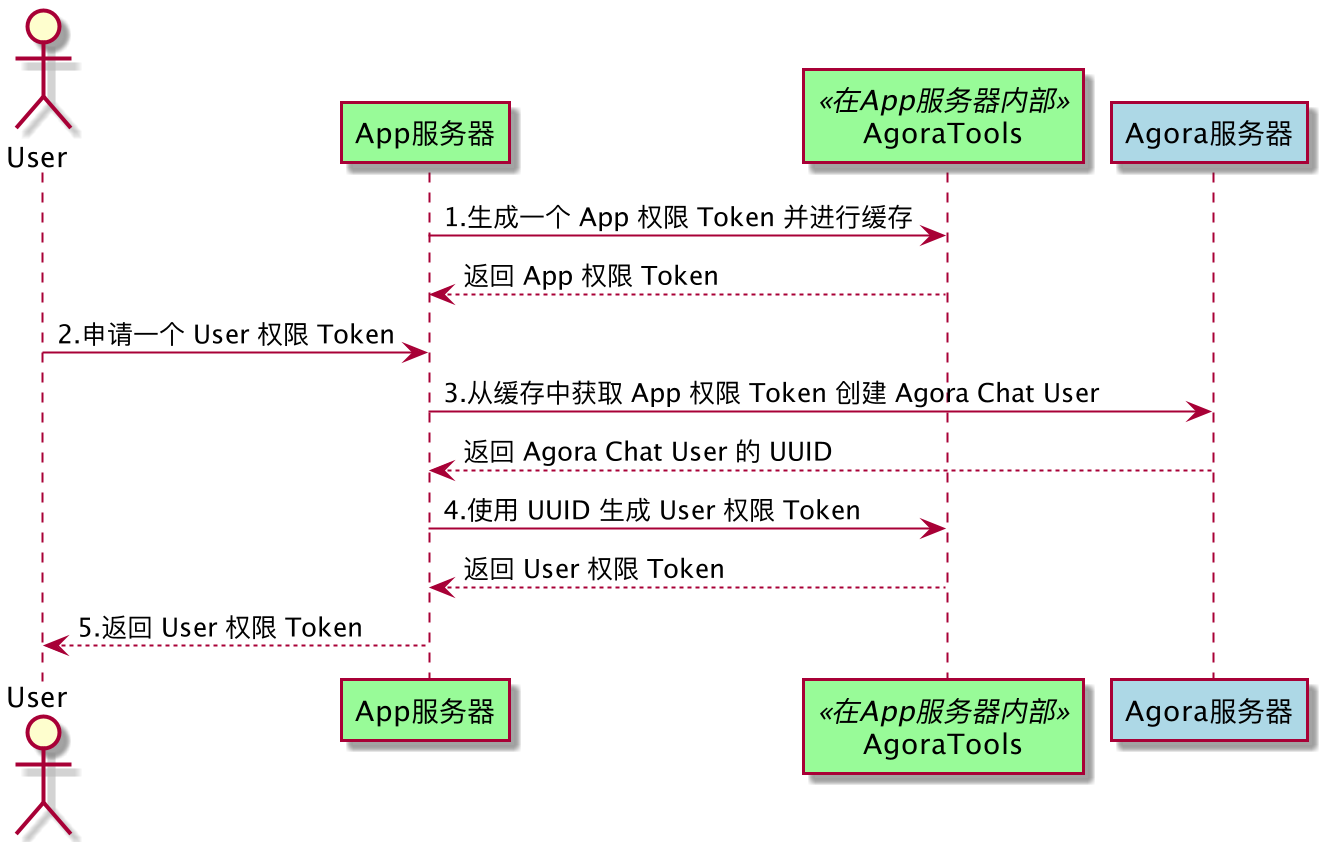
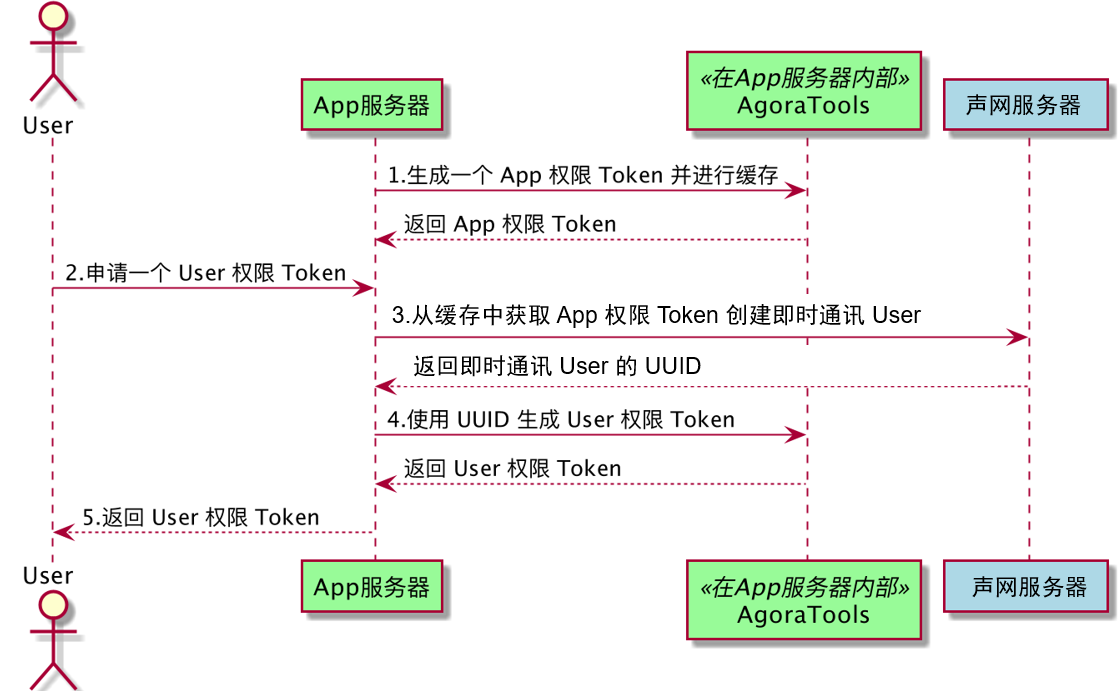
modify

diff --git a/markdown/agora-chat/legacy/access_token_2.md b/markdown/agora-chat/legacy/access_token_2.md
@@ -1,9 +1,10 @@
-如果你同时集成了 Agora Chat SDK 和 Agora RTC SDK，Agora 建议你将 Agora RTC SDK 的 Token 鉴权机制从 [AccessToken](https://github.com/AgoraIO/Tools/blob/master/DynamicKey/AgoraDynamicKey/cpp/src/AccessToken.h) 升级到 [AccessToken2](https://github.com/AgoraIO/Tools/blob/release/accesstoken2/DynamicKey/AgoraDynamicKey/cpp/src/AccessToken2.h)。
-本文以 Java 服务端和 Web 客户端为例，通过具体步骤引导你搭建并升级 Agora RTC SDK 的 Token 鉴权机制。
+如果你同时集成了即时通讯 IM SDK 和声网 RTC SDK，声网建议你将声网 RTC SDK 的 Token 鉴权机制从 [AccessToken](https://github.com/AgoraIO/Tools/blob/master/DynamicKey/AgoraDynamicKey/cpp/src/AccessToken.h) 升级到 [AccessToken2](https://github.com/AgoraIO/Tools/blob/release/accesstoken2/DynamicKey/AgoraDynamicKey/cpp/src/AccessToken2.h)。
+本文以 Java 服务端和 Web 客户端为例，通过具体步骤引导你搭建并升级声网 RTC SDK 的 Token 鉴权机制。
 
 ## 前提条件
-- 你已经根据[使用 User Token 鉴权](https://docs-preprod.agora.io/cn/null/generate_user_tokens%20?platform=All%20Platforms)文档完成了基于 Spring 框架的 Token 服务端和基于 Web 的 Agora Chat 客户端的搭建。
-- 为 Agora Chat 的 Token 服务端添加基于 [AccessToken](https://github.com/AgoraIO/Tools/blob/master/DynamicKey/AgoraDynamicKey/cpp/src/AccessToken.h) 的 RTC Token 服务。在 AgoraChatTokenController.java 文件中，增加 `import com.agora.chat.token.io.agora.media.RtcTokenBuilder;` 引用并添加以下方法：
+
+- 你已经根据[使用 User Token 鉴权](https://docs-preprod.agora.io/cn/null/generate_user_tokens%20?platform=All%20Platforms)文档完成了基于 Spring 框架的 Token 服务端和基于 Web 的即时通讯 IM 客户端的搭建。
+- 为即时通讯 IM 的 Token 服务端添加基于 [AccessToken](https://github.com/AgoraIO/Tools/blob/master/DynamicKey/AgoraDynamicKey/cpp/src/AccessToken.h) 的 RTC Token 服务。在 AgoraChatTokenController.java 文件中，增加 `import com.agora.chat.token.io.agora.media.RtcTokenBuilder;` 引用并添加以下方法：
 ```java
 // 生成 RTC AccessToken
 @GetMapping("/rtc/{rtcChannelName}/{rtcUserId}/{role}/token")
@@ -159,6 +160,7 @@ public String getRtcToken(@PathVariable String rtcChannelName, @PathVariable int
 ### 在 Token 服务端将鉴权机制升级到 AccessToken2
 
 该小节引导你将 Token 服务端升级到 AccessToken2。
+
 1. 更新 import 语句，导入 `RtcTokenBuilder2`。
 ```java
 import com.agora.chat.token.io.agora.media.RtcTokenBuilder2;
@@ -203,7 +205,8 @@ import com.agora.chat.token.io.agora.media.RtcTokenBuilder2;
 本节介绍 SDK 版本支持、AccessToken2 生成器代码库等相关文档。
 
 ### SDK 版本支持
-Agora RTC SDK 对于 AccessToken2 的支持情况如下：
+
+声网RTC SDK 对于 AccessToken2 的支持情况如下：
 
 | SDK 类型             | 支持 AccessToken2 鉴权的首个版本 |
 | :------------------- | :------------------------------- |
@@ -217,10 +220,11 @@ Agora RTC SDK 对于 AccessToken2 的支持情况如下：
 
 使用 AccessToken2 的 SDK 版本可以和使用 AccessToken 的 SDK 版本互通。同时，支持 AccessToken2 的版本也支持 AccessToken。
 
-如果你还使用了云端录制、推流等 RTC 配套产品或服务，请在升级到 AccessToken2 之前[提交工单](https://agora-ticket.agora.io/)联系技术支持。
+如果你还使用了云端录制、推流等 RTC 配套产品或服务，请在升级到 AccessToken2 之前[联系技术支持](https://docs.agora.io/cn/Agora%20Platform/ticket?platform=All%20Platforms)。
 
 ### Token 生成器代码
-Agora 在 GitHub 上提供一个开源的[ AgoraDynamicKey](https://github.com/AgoraIO/Tools/tree/master/DynamicKey/AgoraDynamicKey) 仓库，支持使用 C++、Java、Go 等语言在你自己的服务器上生成 AccessToken2。
+
+声网在 GitHub 上提供一个开源的 [AgoraDynamicKey](https://github.com/AgoraIO/Tools/tree/master/DynamicKey/AgoraDynamicKey) 仓库，支持使用 C++、Java、Go 等语言在你自己的服务器上生成 AccessToken2。
 
 
 | 语言    | 算法        | 核心方法                                                     | 示例代码                                                     |
@@ -234,7 +238,8 @@ Agora 在 GitHub 上提供一个开源的[ AgoraDynamicKey](https://github.com/A
 | Python3 | HMAC-SHA256 | [buildTokenWithUid](https://github.com/AgoraIO/Tools/blob/release/accesstoken2/DynamicKey/AgoraDynamicKey/python3/src/RtcTokenBuilder2.py) | [RtcTokenBuilder2Sample.py](https://github.com/AgoraIO/Tools/blob/release/accesstoken2/DynamicKey/AgoraDynamicKey/python3/sample/RtcTokenBuilder2Sample.py) |
 
 ### API 参考
-本节介绍生成 AccessToken2 的 API 参数和描述。 以 Java 为例：
+
+本节介绍生成 AccessToken2 的 API 参数和描述。以 Java 为例：
 
 ```java
 public String buildTokenWithUid(String appId, String appCertificate, String channelName, int uid, Role role, int expire) 
@@ -242,7 +247,7 @@ public String buildTokenWithUid(String appId, String appCertificate, String chan
 
 | 参数             | 描述                                                         |
 | :--------------- | :----------------------------------------------------------- |
-| `appId`          | 你在 Agora 控制台创建项目时生成的 App ID。                   |
+| `appId`          | 你在声网控制台创建项目时生成的 App ID。                   |
 | `appCertificate` | 你的项目的 App 证书。                                        |
 | `channelName`    | 频道名称，长度在 64 个字节以内。以下为支持的字符集范围：26 个小写英文字母 a-z；26 个大写英文字母 A-Z；10 个数字 0-9；空格标点符号和其他符号, 包括: "!", "#", "$", "%", "&", "(", ")", "+", "-", ":", ";", "<", "=", ".", ">", "?", "@", "[", "]", "^", "_", " {", "}", "\|", "~", ",". |
 | `uid`            | 待鉴权用户的用户 ID 32 位无符号整数，范围为 1 到 (2³² - 1)， 并保证唯一性。 如不需对用户 ID 进行鉴权，即客户端使用任何 `uid` 都可加入频道，请把 `uid` 设为 0。 |
@@ -251,7 +256,7 @@ public String buildTokenWithUid(String appId, String appCertificate, String chan
 
 ### 精细权限设置
 
-为方便你对频道中的用户的发流权限进行更精细的控制，Agora 还提供一个同名的重载方法。支持你对用户分别设置加入频道、发布音频流、发布视频流及发布数据流的权限进行分别设置。以 Java 为例：
+为方便你对频道中的用户的发流权限进行更精细的控制，声网还提供一个同名的重载方法。支持你对用户分别设置加入频道、发布音频流、发布视频流及发布数据流的权限进行分别设置。以 Java 为例：
 
 ```java
 public String buildTokenWithUid(String appId, String appCertificate, String channelName, int uid, int tokenExpire, int joinChannelPrivilegeExpire, int pubAudioPrivilegeExpire, int pubVideoPrivilegeExpire, int pubDataStreamPrivilegeExpire) 
@@ -281,9 +286,9 @@ public String buildTokenWithUid(String appId, String appCertificate, String chan
 
 ### 开通连麦鉴权
 
-请参考以下步骤在 Agora 控制台开启连麦鉴权服务：
+请参考以下步骤在声网控制台开启连麦鉴权服务：
 
-1. 登录 Agora 控制台，在**项目列表**区域选择你想要开启的项目，点击编辑按钮，进入编辑项目页面。
+1. 登录声网控制台，在**项目列表**区域选择你想要开启的项目，点击编辑按钮，进入编辑项目页面。
 2. 在项目详情页，下滑到功能区域，点击激活**连麦鉴权**。
 3. 按照屏幕提示，了解开通该功能的主要事项，勾选后点击 **Enable**。
 

diff --git a/markdown/agora-chat/REST/agora_chat_restful_message.md b/markdown/agora-chat/REST/agora_chat_restful_message.md
@@ -678,7 +678,7 @@ curl -X POST -i "https://XXXX/XXXX/XXXX/messages/chatgroups" -H 'Content-Type: a
 
 通过 RESTful API 单个应用每秒最多可向聊天室发送 100 条消息，每次最多可向 10 个聊天室发送消息。例如，一次向 10 个聊天室发送消息，视为 10 条消息。
 
-对于聊天室消息，环信即时通讯提供消息分级功能，将消息的优先级划分为高、普通和低三种级别，高优先级的消息会优先送达。你可以在创建消息时对指定聊天室消息类型或指定成员的消息设置为高优先级，确保这些消息优先送达。这种方式确保在聊天室内消息并发量很大或消息发送频率过高时，重要消息能够优先送达，从而提升重要消息的可靠性。 当服务器的负载较高时，会优先丢弃低优先级的消息，将资源留给高优先级的消息。不过，消息分级功能只确保消息优先到达，并不保证必达。服务器负载过高的情况下，即使是高优先级消息依然会被丢弃。
+对于聊天室消息，即时通讯 IM 提供消息分级功能，将消息的优先级划分为高、普通和低三种级别，高优先级的消息会优先送达。你可以在创建消息时对指定聊天室消息类型或指定成员的消息设置为高优先级，确保这些消息优先送达。这种方式确保在聊天室内消息并发量很大或消息发送频率过高时，重要消息能够优先送达，从而提升重要消息的可靠性。 当服务器的负载较高时，会优先丢弃低优先级的消息，将资源留给高优先级的消息。不过，消息分级功能只确保消息优先到达，并不保证必达。服务器负载过高的情况下，即使是高优先级消息依然会被丢弃。
 
 #### HTTP 请求
 
@@ -1043,7 +1043,8 @@ curl -X POST https://XXXX/XXXX/XXXX/chatfiles -H 'Authorization: Bearer <YourApp
 
 下载图片、语音、视频或其他类型文件。
 
-<div class="alert note">如果上传文件时设置了文件访问限制（`restrict-access` 设置为 `true`），需要在下载请求头中包含文件上传响应中返回的 `share-secret` 和当前登录用户的 token 才能下载文件。</div>
+<div class="alert note">如果上传文件时设置了文件访问限制（restrict-access 设置为 true），需要在下载请求头中包含文件上传响应中返回的 share-secret 和当前登录用户的 token 才能下载文件。</div>
+
 ### HTTP 请求
 
 ```http
@@ -1715,7 +1716,7 @@ POST https://{host}/{org_name}/{app_name}/messages/users/import
 | `type`          | String | 消息类型：<ul><li>`txt`：文本消息</li><li>`img`：图片消息</li><li>`audio`：语音消息</li><li>`video`：视频消息</li><li>`file`：文件消息</li><li>`loc`：位置消息</li><li>`cmd`：透传消息</li><li>`custom`：自定义消息</li></ul> | 是       |
 | `body`          | JSON   | 消息内容。                                                                                                                                                                                                                   | 是       |
 | `is_ack_read`   | Boolean   | 是否设置消息为已读。<ul><li>`true`：是；</li><li>`false`：否。</li></ul>                                                                                                                                                                | 否       |
-| `msg_timestamp` | Number  | 要导入的消息的时间戳，单位为毫秒。若不传该参数，环信服务器会将导入的消息的时间戳设置为当前时间。  | 否       |
+| `msg_timestamp` | Number  | 要导入的消息的时间戳，单位为毫秒。若不传该参数，声网服务器会将导入的消息的时间戳设置为当前时间。  | 否       |
 | `need_download` | Boolean   | 是否需要下载附件并上传到服务器。<ul><li>`true`：是</li><li>（默认）`false`：否</li></ul>       | 否       |
 
 与发送消息类似，不同类型的消息只是 `body` 字段内容存在差异。详见 [body 字段说明](#msg)。

diff --git a/markdown/agora-chat/REST/agora_chat_set_up_webhooks.md b/markdown/agora-chat/REST/agora_chat_set_up_webhooks.md
@@ -20,7 +20,7 @@
 
 下图展示了发送前回调的工作流程。
 
-![发送前回调工作流程](https://web-cdn.agora.io/docs-files/1642478214940)
+![](./images/callback_presending.png)
 
 如图所示，发送前回调的工作流程如下：
 
@@ -35,7 +35,7 @@
 
 下图展示了发送后回调的工作流程。
 
-![发送后回调工作流程](https://web-cdn.agora.io/docs-files/1642478242440)
+![](./images/callback_postsending.png)
 
 如图所示，发送后回调的工作流程如下：
 
@@ -51,7 +51,7 @@
 - 了解 API 调用频率限制，详见[使用限制](./agora_chat_limitation?platform=RESTful#服务端接口调用频率限制)。
 - 已订阅即时通讯 IM 进阶版或企业版套餐包，详见[管理套餐包](./agora_chat_pricing#管理套餐包)，并且在[声网控制台](https://console.agora.io/)开通 HTTP 回调功能。
 
-<div class="alert note">若关闭 HTTP 回调功能，必须联系 <a href="mailto:support@agora.io">support@agora.io</a>，因为该操作会删除所有相关配置。</div>
+<div class="alert note">若关闭 HTTP 回调功能，必须联系 <a href="mailto:sales@agora.io">sales@agora.io</a>，因为该操作会删除所有相关配置。</div>
 
 ## 配置回调规则
 
@@ -94,9 +94,7 @@
 | 启用状态           |  是     | 是否启用回调规则：<ul><li>**启用**：启用后回调规则立即生效；</li><li>**未启用**：回调规则为关闭状态，不生效。</li></ul>                   |
 | 回调地址           |  是     | 用于接收发送后回调的应用服务器的 URL，不能超过 512 字符。支持 HTTP 和 HTTPS 地址。                   |
 
-<div class="alert info">发送前和发送后回调的注意事项如下：<ul><li>默认情况下，发送前和发送后回调规则总计最多能添加四个。若要添加更多规则，需[联系技术支持](https:/
-/docs.agora.io/cn/Agora%20Platform/ticket?platform=All%20Platforms)。</li><li>规则配置仅支持消息事件。若要接收其他事件的通知，需[联系技术支持](https:/
-/docs.agora.io/cn/Agora%20Platform/ticket?platform=All%20Platforms)。</li><li>如果你同时设置了发送前和发送后回调，若发送前回调触发后消息被拦截，则不会触发发送后回调。</li></ul></div>
+<div class="alert info">发送前和发送后回调的注意事项如下：<ul><li>默认情况下，发送前和发送后回调规则总计最多能添加四个。若要添加更多规则，需<a href="https://docs.agora.io/cn/Agora%20Platform/ticket?platform=All%20Platforms">联系技术支持</a>。</li><li>规则配置仅支持消息事件。若要接收其他事件的通知，需<a href="https://docs.agora.io/cn/Agora%20Platform/ticket?platform=All%20Platforms">联系技术支持</a>。</li><li>如果你同时设置了发送前和发送后回调，若发送前回调触发后消息被拦截，则不会触发发送后回调。</li></ul></div>
 
 ## HTTP 请求和响应
 
@@ -217,7 +215,7 @@ GET https://{host}/{org_name}/{app_name}/callbacks/storage/info
 
 ```shell
 # 将 <YourAppToken> 替换为你在服务端生成的 App Token
-curl -X GET 'http://a1.easemob.com/easemob-demo/easeim/callbacks/storage/info' \
+curl -X GET 'http://XXXX/XXXX/XXXX/callbacks/storage/info' \
 -H 'Authorization: Bearer <YourAppToken>'
 ```
 
@@ -226,10 +224,10 @@ curl -X GET 'http://a1.easemob.com/easemob-demo/easeim/callbacks/storage/info' \
 ```json
 {
     "path": "/callbacks",
-    "uri": "http://a1.easemob.com/easemob-demo/easeim/callbacks",
+    "uri": "http://XXXX/XXXX/XXXX/callbacks",
     "timestamp": 1631193031254,
-    "organization": "easemob-demo",
-    "application": "8dfb1641-b6d8-450b-bbe9-d8d45a3be39f",
+    "organization": "XXXX",
+    "application": "8dfb1641-XXXX-XXXX-bbe9-d8d45a3be39f",
     "action": "post",
     "data": [
         {
@@ -244,7 +242,7 @@ curl -X GET 'http://a1.easemob.com/easemob-demo/easeim/callbacks/storage/info' \
         }
     ],
     "duration": 153,
-    "applicationName": "easeim"
+    "applicationName": "XXXX"
 }
 ```
 

diff --git a/markdown/agora-chat/Reference/analytics_agora_chat.md b/markdown/agora-chat/Reference/analytics_agora_chat.md
@@ -40,8 +40,8 @@
 
 || 描述 | 注意事项 |
 | :----------- | :------------------ | :---------------- |
-| 消息量趋势 | 以折线图展示消息总数在某一时间范围内的变化趋势。指标含义详见[消息量指标](./analytics_agora_chat_glossary#消息指标)。 | <li>支持查询过去 6 个月的数据。</li><li>该版块所有指标的统计粒度均为天，数据有 1 分钟的延迟。</li> |
-| 消息类型趋势 | 分类型展示消息数量在某一时间范围内的变化趋势和占比。指标含义详见[消息量指标](./analytics_agora_chat_glossary#消息指标)。 | <li>支持查询过去 6 个月的数据。</li><li>该版块所有指标的统计粒度均为天，数据有 1 分钟的延迟。</li> |
+| 消息量趋势 | 以折线图展示消息总数在某一时间范围内的变化趋势。指标含义详见[消息量指标](./analytics_agora_chat_glossary#消息量指标)。 | <li>支持查询过去 6 个月的数据。</li><li>该版块所有指标的统计粒度均为天，数据有 1 分钟的延迟。</li> |
+| 消息类型趋势 | 分类型展示消息数量在某一时间范围内的变化趋势和占比。指标含义详见[消息量指标](./analytics_agora_chat_glossary#消息量指标)。 | <li>支持查询过去 6 个月的数据。</li><li>该版块所有指标的统计粒度均为天，数据有 1 分钟的延迟。</li> |
 
 以查看聊天室的上行消息类型趋势为例，饼图包括以下信息：
 
@@ -52,7 +52,7 @@
 
 参考如下步骤查看即时通讯 IM 质量洞察页面：
 
-1. 登录[控制台](https://console.agora.io/)，在左侧菜单栏中点击**水晶球** > **AgoraChat 质量洞察**。
+1. 登录[声网控制台](https://console.agora.io/)，在左侧菜单栏中点击**水晶球** > **AgoraChat 质量洞察**。
 
 2. 在页面左上方的下拉菜单中选择需要查看的声网项目。
 
@@ -77,7 +77,7 @@
 
 ### Server API 数据
 
-Server API 数据版块以折线图展示服务器端 REST API 接口调用的请求次数、请求成功率、平均时延数据。指标类型和指标的含义详见[Server API 数据指标](./analytics_agora_chat_glossary#Server-API-数据指标)。
+Server API 数据版块以折线图展示服务器端 REST API 接口调用的请求次数、请求成功率、平均时延数据。指标类型和指标的含义详见 [Server API 数据指标](./analytics_agora_chat_glossary#server-api-数据指标)。
 
 <div class="alert note">Server API 数据包含了一部分 SDK 对 REST API 接口的调用。例如 SDK 端的群组操作是通过 REST API 调用的，因此也会统计在 Server API 数据里。</div>
 

diff --git a/markdown/agora-chat/Reference/agora_chat_glossary.md b/markdown/agora-chat/Reference/agora_chat_glossary.md
@@ -12,7 +12,7 @@ CallKit 是一套基于声网的实时通讯和信令服务开发的开源音视
 
 ## 声网控制台
 
-声网提供给开发者管理声网各项服务的工具。控制台提供直观的界面，方便开发者在使用声网各项服务时进行充值、查询、管理等操作。详见[开始使用声网平台](https://docs.agora.io/cn/Agora%20Platform/get_appid_token?platform=All%20Platforms)
+声网提供给开发者管理声网各项服务的工具。控制台提供直观的界面，方便开发者在使用声网各项服务时进行充值、查询、管理等操作。详见[开始使用声网平台](https://docs.agora.io/cn/Agora%20Platform/get_appid_token?platform=All%20Platforms)。
 
 ## Demo
 
@@ -108,7 +108,7 @@ CallKit 是一套基于声网的实时通讯和信令服务开发的开源音视
 
 离线是指用户成功登出环信即时通讯 IM 系统或与即时通讯 IM 系统断开连接后的状态。用户登出即时通讯 IM 系统之后，无法发送和接受消息，在下次登录后可以接收到离线消息。
 
-## 封禁用户
+### 封禁用户
 
 禁止用户使用即时通讯 IM 服务。封禁后，用户无法连接即时通讯 IM 服务器。
 
@@ -174,7 +174,7 @@ CallKit 是一套基于声网的实时通讯和信令服务开发的开源音视
 
 即时通讯 IM 的服务器端接口都是通过 RESTful 服务方式提供的，RESTful API 基于最简单的 HTTP 协议，在各个编程语言中都提供了良好的支持。
 
-即时通讯 IM RESTful 平台提供一个多租户用户体系，以集合（Collection）的形式的形式管理资源，一个集合包括 数据库、企业、应用、用户、群组、消息和文件等。
+即时通讯 IM RESTful 平台提供一个多租户用户体系，以集合（Collection）的形式管理资源，一个集合包括 数据库、企业、应用、用户、群组、消息和文件等。
 
 ## 离线推送
 
@@ -190,7 +190,7 @@ CallKit 是一套基于声网的实时通讯和信令服务开发的开源音视
 
 ## 消息表情回复 Reaction
 
-在单聊和群聊中对消息添加、删除表情。表情可以直观地表达情绪，利用 Reaction 可以提升用户的使用体验。同时在群组中，利用 Reaction 可以发起投票，根据不同表情的追加数量来确认投票。
+在单聊和群聊中对消息添加、删除表情。表情可以直观地表达情绪，利用 Reaction 可以提升用户的使用体验，例如可以在群组中利用 Reaction 可以发起投票，根据不同表情的追加数量来确认投票。
 
 ## 子区
 

diff --git a/markdown/agora-chat/Reference/agora_chat_overview.md b/markdown/agora-chat/Reference/agora_chat_overview.md
@@ -1,4 +1,4 @@
-即时通讯 IM 提供高可靠、低时延、高并发的全球化通信云服务，帮助你快速构建端到端的通信场景。
+即时通讯 IM 为开发者提供高可靠、低时延、高并发、安全、全球化的通信云服务。IM 提供多平台 SDK 支持，包括 Android、iOS、Web 和小程序，同时，提供服务端 REST API，支持在单聊、群聊、聊天室等聊天场景中实现消息、群组、聊天室、用户属性、用户关系、推送、在线状态订阅、消息表情回复、消息审核、子区以及音视频通话等配套功能，帮助开发者快速构建端到端的通信场景。
 
 ## 功能列表
 
@@ -82,15 +82,20 @@
 - 即时通讯支持同城三数据中心的部署架构，提供 SLA 质量保证，登录成功率 > 99%，全年可用时间高达 99.95%。
 - 优异的弱网对抗能力，保证在 70% 丢包情况下，消息到达率仍然为 100%。
 
+### 高安全性
+
+使用 TLS/SSL 和文件加密构建安全的聊天应用程序，并允许用户删除个人数据确保数据隐私合规性。
+
 ## 平台支持
 
-即时通讯支持 Android、iOS 和 Web 平台，而且各平台之间可互通。下表为即时通讯支持的各平台版本：
+即时通讯支持 Android、iOS、Web 和微信小程序平台，而且各平台之间可互通。下表为即时通讯支持的各平台版本：
 
 | 平台     | 支持的版本                                   |
 | ------------ | ------------------------------------------------------------ |
 | Android      | Android 5.0 或以上版本（API 级别 21 或以上）   |
 | iOS          | iOS 10.0 或以上版本                                            |
 | Web          | <li>Internet Explorer 9 或以上 <li>FireFox 10 或以上 <li>Chrome 54 或以上 Safari 6 或以上<li>Edge 12 或以上 <li>Opera 58 或以上<li>iOS Safari 7 或以上<li>Android Browser 4.4 (KitKat) 或以上 |
+| 微信小程序      | <li>微信 App iOS 最低版本要求：6.5.8<li>微信 App Android 最低版本要求：6.5.7<li>小程序基础库最低版本要求：1.7.0   |
 
 ## 云信令与即时通讯的区别
 

diff --git a/markdown/agora-chat/Reference/agora_chat_error_ios.md b/markdown/agora-chat/Reference/agora_chat_error_ios.md
@@ -23,7 +23,7 @@
 | 205    | `AgoraChatErrorUserIllegalArgument`         | 用户参数不正确：比如创建用户 ID 时不符合格式要求，或者更新用户属性时用户参数为空等。 |
 | 206    | `AgoraChatErrorUserLoginOnAnotherDevice`    | 用户在其他设备登录：如果用户未开启多设备登录，当在其他设备登录时，会被强制从当前登录的设备下线，且收到该错误码。 |
 | 207    | `AgoraChatErrorUserRemoved`                 | 用户已经被注销：如果登录用户 ID 被管理员从管理后台删除则会收到此错误。       |
-| 208    | `AgoraChatErrorUserRegisterFailed`          | 用户注册失败：调用服务端注册方法时，传入参数为空或不合法，请确认后重新调用方法。详见[注册用户 RESTful API](./agora_chat_restful_reg?platform=RESTful#注册单个用户)。 |
+| 208    | `AgoraChatErrorUserRegisterFailed`          | 用户注册失败：调用服务端注册方法时，传入参数为空或不合法，请确认后重新调用方法。详见[注册用户 RESTful API](./agora_chat_restful_registration#注册单个用户)。 |
 | 209    | `AgoraChatErrorUpdateApnsConfigsFailed`     | 更新推送配置错误：用户更新推送配置信息错误，如更新推送显示昵称、更新免打扰模式等。请重新调用方法。 |
 | 210    | `AgoraChatErrorUserPermissionDenied`        | 用户无权限 ：例如，如果用户被封禁，发送消息时会提示该错误。 |
 | 214    | `AgoraChatErrorUserLoginTooManyDevices`     | 用户登录设备数超过限制：该错误在多设备自动登录场景中且打开不踢掉其他设备上的登录的开关时超过登录设备数量的限制才会出现。例如，用户最多可同时登录 4 台设备， A（实现了自动登录）、B、C 和 D。手动登录设备 E 后，用户再次自动登录设备 A 时登录失败且提示该错误。如对登录设备数量有更高需求，请联系 [sales@agora.io](mailto:sales@agora.io)。 |

diff --git a/markdown/agora-chat/REST/agora_chat_restful_chatroom_blocklist.md b/markdown/agora-chat/REST/agora_chat_restful_chatroom_blocklist.md
@@ -135,7 +135,7 @@ POST https://{host}/{org_name}/{app_name}/chatrooms/{chatroom_id}/blocks/users/{
 | 字段              | 类型   | 描述                                                         |
 | :---------------- | :----- | :----------------------------------------------------------- |
 | `data`     | JSON   | 将用户添加至聊天室黑名单的结果。 |
-| `data.result`     | Boolean   | 是否成功将用户添加至聊天室黑名单：<ul><li>`true`：是</li><li>`false`：否<ul><li> |
+| `data.result`     | Boolean   | 是否成功将用户添加至聊天室黑名单：<ul><li>`true`：是</li><li>`false`：否</li></ul>|
 | `data.action`     | String | 执行的操作。在该响应中，该字段的值为 `add_blocks`，表示向聊天室黑名单中添加用户。 |
 | `data.user`       | String | 添加至聊天室白名单的用户 ID。      |
 | `data.chatroomid` | String | 聊天室 ID。              |
@@ -301,7 +301,7 @@ DELETE https://{host}/{org_name}/{app_name}/chatrooms/{chatroom_id}/blocks/users
 | 字段              | 类型   | 描述                                                         |
 | :---------------- | :----- | :----------------------------------------------------------- |
 | `data`     | JSON   | 将该用户移出聊天室黑名单的结果。 |
-| `data.result`     | Boolean   | 是否成功将该用户移出聊天室黑名单：<ul><li>`true`：是</li><li>`false`：否<ul><li>|
+| `data.result`     | Boolean   | 是否成功将该用户移出聊天室黑名单：<ul><li>`true`：是</li><li>`false`：否</li></ul>|
 | `data.chatroomid` | String | 聊天室 ID。                                                  |
 | `data.action`     | String | 执行的操作。在该响应中，该字段的值为 `remove_blocks`，表示将用户移出聊天室黑名单。 |
 | `data.user`       | String | 被移除的用户 ID。                                            |

diff --git a/markdown/agora-chat/REST/agora_chat_restful_group_create.md b/markdown/agora-chat/REST/agora_chat_restful_group_create.md
@@ -420,7 +420,7 @@ PUT https://{host}/{org_name}/{app_name}/chatgroups/{group_id}
 | `data.groupname`    | Boolean | 群组名称是否修改成功：<ul><li>`true`：修改成功；</li><li> `false`：修改失败。</li></ul>                                                    |
 | `data.membersonly`  | Boolean | “加入群组是否需要群主或者群管理员审批”是否修改成功：<ul><li>`true`：修改成功；</li><li>`false`：修改失败。</li></ul>   |
 | `data.public`  | Boolean | “是否是公开群”是否修改成功：<ul><li>`true`：修改成功；</li><li>`false`：修改失败。</li></ul>   |
-| `data.custom`  | String | 群组扩展信息是否修改成功：<ul><li>`true`：修改成功；</li><li>`false`：修改失败。</li></ul>   |
+| `data.custom`  | Boolean | 群组扩展信息是否修改成功：<ul><li>`true`：修改成功；</li><li>`false`：修改失败。</li></ul>   |
 | `data.allowinvites` | Boolean | “是否允许群成员邀请其他用户入群”是否修改成功：<ul><li>`true`：修改成功；</li><li>`false`：修改失败。</li></ul> |
 | `data.invite_need_confirm` | Boolean | “邀请用户入群时是否需要受邀用户同意”是否修改成功：<ul><li>`true`：修改成功；</li><li>`false`：修改失败。</li></ul> |
 
@@ -560,7 +560,7 @@ GET https://{host}/{org_name}/{app_name}/chatgroups?limit={N}&cursor={cursor}
 | `limit`  | Number | 每次期望返回的群组数量。取值范围为 [1,100]，默认值为 `10`。 | 否  |
 | `cursor` | String | 数据查询的起始位置。 | 否  |
 
-<div class="alert info">若请求中均未设置 `limit` 和 `cursor` 参数，服务器按群组创建时间倒序返回前 10 个群组。</div>
+<div class="alert info">若请求中均未设置 limit 和 cursor 参数，服务器按群组创建时间倒序返回前 10 个群组。</div>
 
 #### 请求 header
 

diff --git a/markdown/agora-chat/REST/agora_chat_restful_reaction.md b/markdown/agora-chat/REST/agora_chat_restful_reaction.md
@@ -66,7 +66,7 @@ POST https://{host}/{org_name}/{app_name}/reaction/user/{username}
 | `data`              | JSON    | 添加的 Reaction 的详情。                                     |
 | `data.id`           | String  | Reaction ID。                                                |
 | `data.msgId`        | String  | 添加 Reaction 的消息 ID。                                    |
-| `data.msgType`      | String  | 消息的会话类型：<ul><li>`chat`：单聊</li><li>`groupchat`：群聊<ul><li> |
+| `data.msgType`      | String  | 消息的会话类型：<ul><li>`chat`：单聊</li><li>`groupchat`：群聊</li></ul> |
 | `data.groupId`      | String  | 群组 ID。该参数在单聊时为 null。                             |
 | `data.reaction`     | String  | 表情 ID，与客户端一致，与[创建/追加 Reaction API](#create)的请求参数 `message` 相同。 |
 | `data.createAt`     | Number | Reaction 的创建时间。                                        |
@@ -285,7 +285,8 @@ GET https://{host}/{org_name}/{app_name}/reaction/user/{username}/detail?msgId={
 | `limit`   | Number | 每页显示的 Reaction 条数。取值范围为 [1,50]，默认值为 `50`。| 否       |
 | `cursor`  | String | 查询游标，指定数据查询的起始位置。                  | 否      |
 
-<div class="alert note">分页获取时，服务器按 Reaction 添加时间的正序返回。若 `limit` 和 `cursor` 均不传值，服务器返回最早添加的 50 个 Reaction。</div>
+<div class="alert note">分页获取时，服务器按 Reaction 添加时间的正序返回。若 limit 和 cursor 均不传值，服务器返回最早添加的 50 个 Reaction。</div>
+
 #### 请求 header
 
 | 参数            | 类型   | 描述                                | 是否必填 |

diff --git a/markdown/agora-chat/REST/agora_chat_restful_chatroom_member.md b/markdown/agora-chat/REST/agora_chat_restful_chatroom_member.md
@@ -6,7 +6,7 @@
 
 | 成员角色     | 描述                                               | 管理权限                                                                       |
 | :----------- | :------------------------------------------------- | :----------------------------------------------------------------------------- |
-| 普通成员     | 不具备管理权限的聊天室成员。                       | 普通成员可以修改自己的聊天室资料。                                             |
+| 普通成员     | 不具备管理权限的聊天室成员。                       | 普通成员可以修改自己的聊天室信息。                                             |
 | 聊天室管理员 | 由聊天室创建者授权，协助聊天室管理，具有管理权限。 | 管理员可以管理聊天室内的普通成员。 最多支持添加 99 个管理员。                  |
 | 聊天室所有者 | 聊天室的创建者，具有聊天室最高权限。               | 聊天室所有者可以指定聊天室管理员、解散聊天室、修改聊天室信息、管理聊天室成员。 |
 
@@ -587,7 +587,7 @@ DELETE https://{host}/{org_name}/{app_name}/chatrooms/{chatroom_id}/admin/{oldad
 
 | 参数            | 类型   | 描述                   | 是否必填 |
 | :-------------- | :----- | :--------------------- | :------- |
-| `Accept`        | String | 内容类型。填入 `application/json` | 是       |
+| `Accept`        | String | 内容类型。填入 `application/json`。 | 是       |
 | `Authorization` | String | App 管理员的鉴权 token，格式为 `Bearer YourAppToken`，其中 `Bearer` 为固定字符，后面为英文空格和获取到的 app 权限 token。| 是       |
 
 ### HTTP 响应

diff --git a/markdown/agora-chat/REST/agora_chat_restful_chatroom_attributes.md b/markdown/agora-chat/REST/agora_chat_restful_chatroom_attributes.md
@@ -256,8 +256,7 @@ PUT https://{host}/{org_name}/{app_name}/metadata/chatroom/{chatroom_id}/user/{u
 
 | 参数          | 类型   | 是否必需 | 描述                                               |
 | :------------ | :----- | :------- | :--------------------------------------------------- |
-| `metaData`    | JSON | 是     | 聊天室的自定义属性，存储为键值对（key-value pair）集合，即 Map<String,String>。该集合中最多可包含 10 个键值对，在每个键值对中，key 为属性名称，最多可包含 128 个字符；value 为属性值，不能超过 4086 个字符。每个聊天室最多可有 100 个自定义属性，每个应用的聊天室自定义属性总大小为 10 GB。key 支持以下字符集：<ul><li>26 个小写英文字母 a-z；</li><li>26 个大写英文字母 A-Z；</li><li>10 个数字 0-9；</li><li>
-“_”, “-”, “.”。</li></ul>|
+| `metaData`    | JSON | 是     | 聊天室的自定义属性，存储为键值对（key-value pair）集合，即 Map<String,String>。该集合中最多可包含 10 个键值对，在每个键值对中，key 为属性名称，最多可包含 128 个字符；value 为属性值，不能超过 4086 个字符。每个聊天室最多可有 100 个自定义属性，每个应用的聊天室自定义属性总大小为 10 GB。key 支持以下字符集：<ul><li>26 个小写英文字母 a-z；</li><li>26 个大写英文字母 A-Z；</li><li>10 个数字 0-9；</li><li>“_”, “-”, “.”。</li></ul>|
 | `autoDelete` | String | 否     | 当前成员退出聊天室时是否自动删除该自定义属性。<ul><li>（默认）'DELETE'：是；</li><li>'NO_DELETE'：否。</li></ul>              |
 
 ### HTTP 响应
